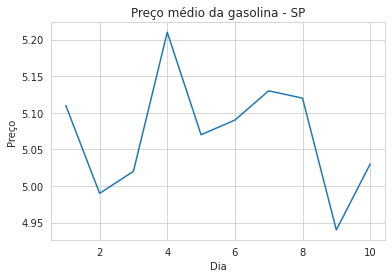
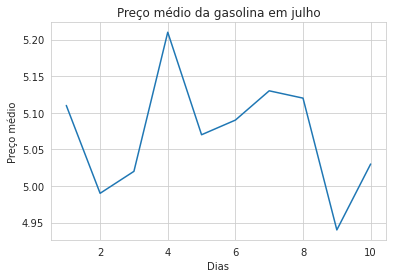
arquivo gasolina.py e gasolina.png alterado em develop

diff --git a/gasolina.py b/gasolina.py
@@ -5,5 +5,5 @@ gasolina_df = pd.read_csv('gasolina.csv', sep=',')
 
 with sns.axes_style('whitegrid'):
   grafico = sns.lineplot(data=gasolina_df, x="dia", y="venda", palette="pastel")
-  grafico.set(title='Preço médio da gasolina - SP', xlabel='Dia', ylabel='Preço')
+  grafico.set(title='Preço médio da gasolina em julho', xlabel='Dias', ylabel='Preço médio')
   grafico.figure.savefig(fname="gasolina.png", bbox_inches="tight");
